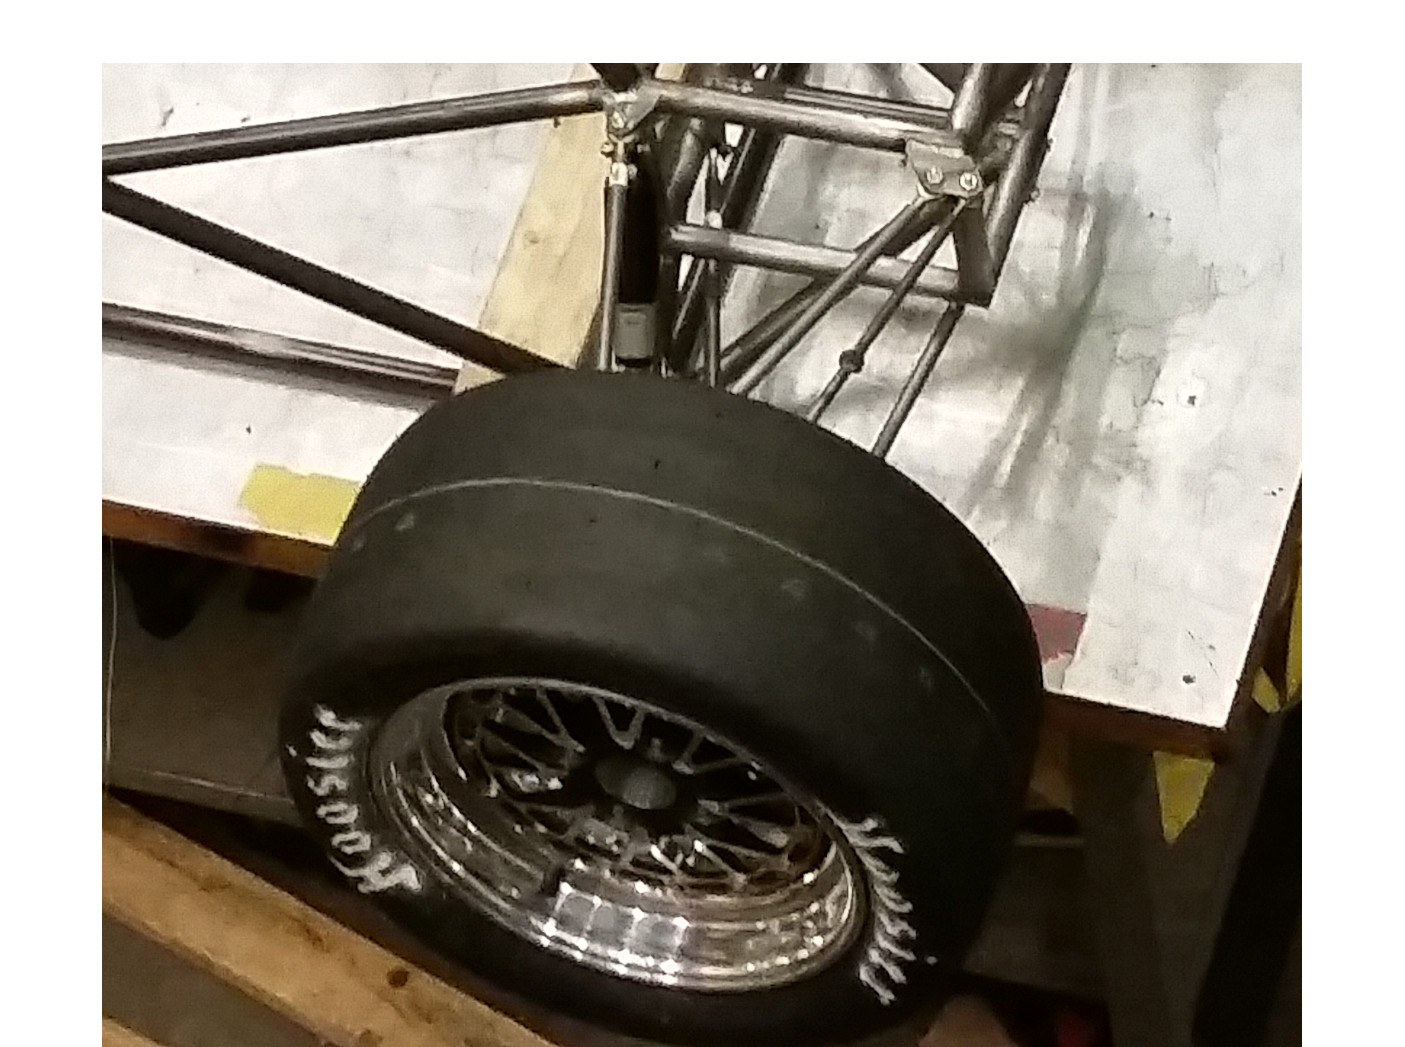
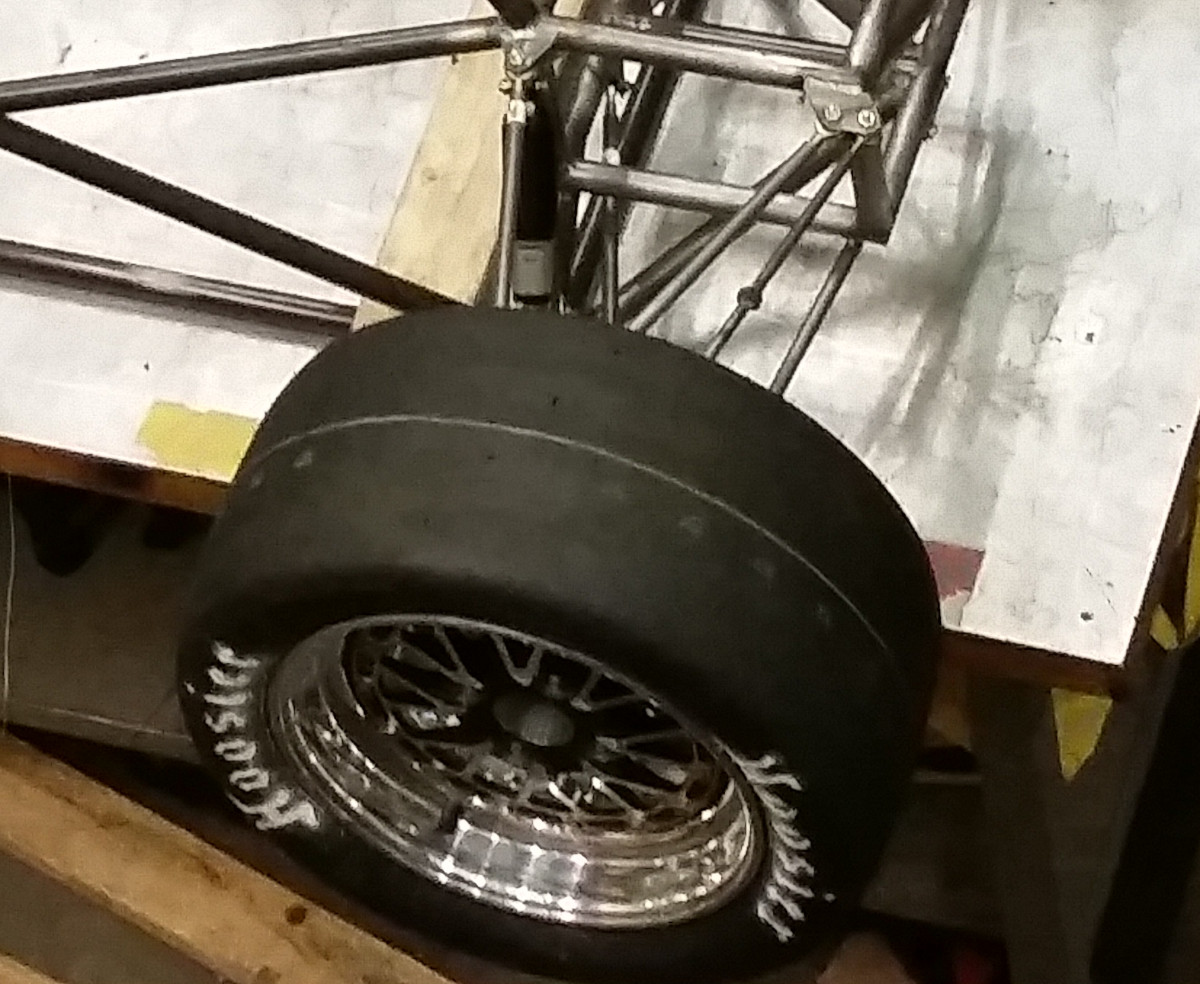
Added new template for images and tons of BR Mech content!

diff --git a/templates/projects/bulldogs-racing-mechanical.html b/templates/projects/bulldogs-racing-mechanical.html
@@ -11,14 +11,14 @@
     Formula SAE is an international competition where student teams design, fabricate, and race cars to a set of rules called the formula. Bulldogs Racing is Yale University's chapter of Formula SAE, which has competed in some form of the competition since 2007.
     </p>
     <p>
-    From 2015-2016 I was Chief Engineer of the team, during which time I led design and fabrication of the suspension, steering, brakes, and chassis portions of the car. My approach for vehicle dynamics design started at the tires, then worked through suspension and chassis, and finished with steering and brakes.
+    From 2015-2016 I was Chief Engineer of the team, during which time I led design and fabrication of the suspension, steering, brakes, and chassis portions of the car. My approach for vehicle dynamics design started at the <a href="#tires">tires</a>, then worked through <a href="#suspension">suspension</a> and <a href="#chassis">chassis</a>, and finished with <a href="#steering">steering</a> and <a href="#brakes">brakes</a>.
     </p>
 </div>
 <div class="col-xl-1"></div>
 <div class="col-xl-5 vert-center">
     <figure>
-    <img class="image-filled" src="/static/img/projects/bulldogs-racing-mechanical/historical-car-2016.jpg">
-    <figcaption>Bulldogs Racing 2016 retro-style race car.</figcaption>
+    <img class="image-filled pb-1" src="/static/img/projects/bulldogs-racing-mechanical/historical-car-2016.jpg">
+    <figcaption>Bulldogs Racing 2016</figcaption>
     </figure>
 </div>
 </div>
@@ -26,44 +26,52 @@
     {% for year in [2008, 2010, 2013, 2014] %}
         <div class="col-md-6 col-xl-3">
             <figure>
-                <img class="image-filled" src="/static/img/projects/bulldogs-racing-mechanical/historical-car-{{ year }}.jpg">
+                <img class="image-filled pb-1" src="/static/img/projects/bulldogs-racing-mechanical/historical-car-{{ year }}.jpg">
                 <figcaption>Bulldogs Racing {{ year }}</figcaption>
             </figure>
         </div>
     {% endfor %}
 </div>
 
-<h2>Tires</h2>
+<h2 id="tires">Tires</h2>
 
 <p>
-Most of the forces exerted on and by a racecar go through the tires, as they are the only contact points between the vehicle and the ground. Additionally, Formula SAE specifies average speeds of 25 to 30 mph, which suggests limited aerodynamic forces on the car since downforce and drag force vary with velocity squared. Therefore, tire selection is crucial to vehicle performance and defines the rest of vehicle dynamics design.
+Most of the forces exerted on and by a racecar go through the tires, as they are the only contact points between the vehicle and the ground. Additionally, Formula SAE specifies average speeds of 25 to 30 mph, which suggests limited aerodynamic forces on the car since downforce and drag force vary with velocity squared. Tire selection is crucial to vehicle performance and defines the rest of vehicle dynamics design. I would highly suggest <a href="https://books.google.com/books/about/The_Racing_High_performance_Tire.html?id=oAbg-tWC4uAC">The Racing &amp; High-Performance Tire: Using Tires to Tune for Grip &amp; Balance</a> by Paul Haney; it greatly influenced my understanding of and approach to tire analysis.
 </p>
 <p>
-The Formula SAE Tire Test Consortium pools resources from teams to obtain high quality tire force and moment data for a selection of relevant tires. From this data, tire coefficients of friction can be fit for a variety of pressures, vertical loads, cambers, and slip angles to then determine the perfect tire fit for a given vehicle design. I completed the tire data analysis for Bulldogs Racing and determined that 6" wide front and 7.5" wide rear Hoosier tires offered the optimal performance for our projected 300 lb, 60% rear-weight biased car. I also found that a 0&#176; camber resulted in the highest coefficient of friction for the Hoosier tires, which was a primary input into the suspension design. Example raw tire data are shown below, with coefficient of friction (normalized Y force) dependend on the slip angle between the tire and direction of travel.
+The Formula SAE Tire Test Consortium pools resources from teams to obtain high quality tire force and moment data for a selection of relevant tires. From this data, tire coefficients of friction can be fit for a variety of pressures, vertical loads, cambers, and slip angles to then determine the perfect tire fit for a given vehicle design. I completed the tire data analysis for Bulldogs Racing and determined that 6 inch wide front and 7.5 inch wide rear Hoosier tires offered the optimal performance for our projected 300 lb, 60% rear-weight biased car. I also found that a 0&#176; camber resulted in the highest coefficient of friction for the Hoosier tires, which was a primary input into the suspension design. Example raw tire data are shown below, with coefficient of friction (normalized Y force minus one) dependend on the slip angle between the tire and direction of travel.
 </p>
-<div class="row d-flex justify-content-center">
-<div class="col-xl-1"></div>
-<div class="col-xl-5 d-flex justify-content-center">
-    <figure>
-    <img class="img-fluid" src="/static/img/projects/bulldogs-racing-mechanical/tire-data.jpg">
-    <figcaption style="text-align:center">Pacejka's magic formula fit of representative Hoosier tire data.</figcaption>
-    </figure>
-</div>
-<div class="col-xl-5 d-flex justify-content-center">
-    <figure>
-    <img class="img-fluid pb-xl-4" src="/static/img/projects/bulldogs-racing-mechanical/tire-closeup.jpg">
-    <figcaption style="text-align:center">Hoosier 7.5" wide tire installed on rear left of BR2016.</figcaption>
-    </figure>
-</div>
-<div class="col-xl-1"></div>
-</div>
 
-<h2>Suspension</h2>
+{% with left_src="/static/img/projects/bulldogs-racing-mechanical/tire-data.jpg", left_caption="Pacejka's magic formula fit of representative Hoosier tire data.", right_src="/static/img/projects/bulldogs-racing-mechanical/tire-closeup.jpg", right_caption="Hoosier 7.5 inch wide tire installed on the left rear of BR2016." %}
+    {% include "two-images.html" %}
+{% endwith %}
 
-<h2>Chassis</h2>
+<h2 id="suspension">Suspension</h2>
 
-<h2>Steering</h2>
+<p>
+The vehicle suspension system translates forces from the tires to the chassis, ideally while keeping the tire's in their optimum orientation. A double wishbone suspension geometry allows for independent wheel movement through well-defined camber and tire load changes in bump, droop, and roll. I designed the Bulldogs Racing 2016 suspension to optimize tire performance while allowing for independent adjustment of ride height, toe, and camber.
+</p>
+<p>
+Selecting a working tire camber range started at the tires, and was carried out independently for the front 6” Hoosiers and the rear 7.5” Hoosiers. The peak coefficient of friction values were first averaged across tire pressure and camber to determine optimal rim width. Then that rim width was set as a constant and the peak values were averaged across only camber to find optimal tire pressure, which was unsurprisingly the lowest tire pressure in the dataset due to the larger contact patch size of a flatter tire (up to the point of debeading). Lastly, the chosen rim width and pressure were set constant while the peak coefficient of friction values were varied against vertical load for various cambers. Tire performance vs. camber curves are shown below, as well as a closeup of the installed double wishbone suspension.
+</p>
 
-<h2>Brakes</h2>
+{% with left_src="/static/img/projects/bulldogs-racing-mechanical/tire-camber.jpg", left_caption="Camber's effect on tire performance for Hoosier 7.5 inch rears.", right_src="/static/img/projects/bulldogs-racing-mechanical/suspension-closeup.jpg", right_caption="Double wishbone suspension closeup on the right front side." %}
+    {% include "two-images.html" %}
+{% endwith %}
+
+<p>
+My approach to suspension design had three major steps: 1. Start with 2D dynamic wishbone geometry design to determine camber and roll center change in bump, droop, and roll; 2. Progress to a 3D geometry with 2D sketches for the pull rod - rocker - spring/damper plane as informed by spring travel requirements; 3. Finalize the 3D suspension rod, rocker, and spring/damper mount points via a load analysis.
+</p>
+<ol>
+    <li><b>2D Wishbone Geometry: </b>As mentioned in the <a href="#tires">Tires</a> section, the Hoosier tires operate optimally at a 0&#176; camber. A second input parameter to this design was the formula requirement for 1 inch of suspension travel in either direction. I increased this to 1.25 inches in each direction for 2.5 inches total to insure that the design complies with the formula. Upright pickup points were determined by track width and wheelwell room. With these requirements in place, a compromise between front/rear roll center heights and camber changes in roll resulted in a design with approximately 2&#176; of camber change for 2.5&#176; of roll. I left the static camber at 0.5&#176; and 1&#176; in the front and rear respectively because the uprights have built-in camber adjustment in the positive direction only via shims. This design kept the front and rear roll centers as close as possible to each other in both height and lateral offset such that the roll axis remained constant relative to the vehicle mass centroid axis.</li>
+    <li><b>3D Vehicle / 2D Rocker Plane: </b>With the 2D front and rear wishbone geometries defined, I transitioned to a 3D sketch that included longitudinal chassis pickup points and a </li>
+    <li><b>3D Design: </b></li>
+</ol>
+
+<h2 id="chassis">Chassis</h2>
+
+<h2 id="steering">Steering</h2>
+
+<h2 id="brakes">Brakes</h2>
 
 {% endblock %}

diff --git a/templates/two-images.html b/templates/two-images.html
@@ -1,0 +1,16 @@
+<div class="row d-flex justify-content-center">
+    <div class="col-lg-1"></div>
+    <div class="col-lg-5 d-flex justify-content-center">
+        <figure>
+            <img class="img-fluid pb-1" src="{{ left_src }}">
+            <figcaption>{{ left_caption }}</figcaption>
+        </figure>
+    </div>
+    <div class="col-lg-5 d-flex justify-content-center">
+        <figure>
+            <img class="img-fluid pb-1" src="{{ right_src }}">
+            <figcaption>{{ right_caption }}</figcaption>
+        </figure>
+    </div>
+    <div class="col-lg-1"></div>
+</div>

diff --git a/templates/home.html b/templates/home.html
@@ -6,7 +6,7 @@
 <div class="row py-2 px-3">
     <figure>
         <img class="image-filled" src="/static/img/santa-barbara.jpg">
-        <figcaption>Santa Barbara coastline from Arlington Peak.</figcaption>
+        <figcaption style="text-align:left">Santa Barbara coastline from Arlington Peak.</figcaption>
     </figure>
 </div>
 

diff --git a/static/css/main.css b/static/css/main.css
@@ -5,6 +5,7 @@ body {
 
 figcaption {
     color: #777777;
+    text-align: center;
 }
 
 #main {
@@ -28,8 +29,8 @@ figcaption {
 
 .image-text {
     position: absolute;
-    top: 0px;
-    left: 0px;
+    top: 1px;
+    left: 1px;
     background-color: rgba(255, 255, 255, 0.8);
     font-size: 1.5rem;
     font-weight: bold;
